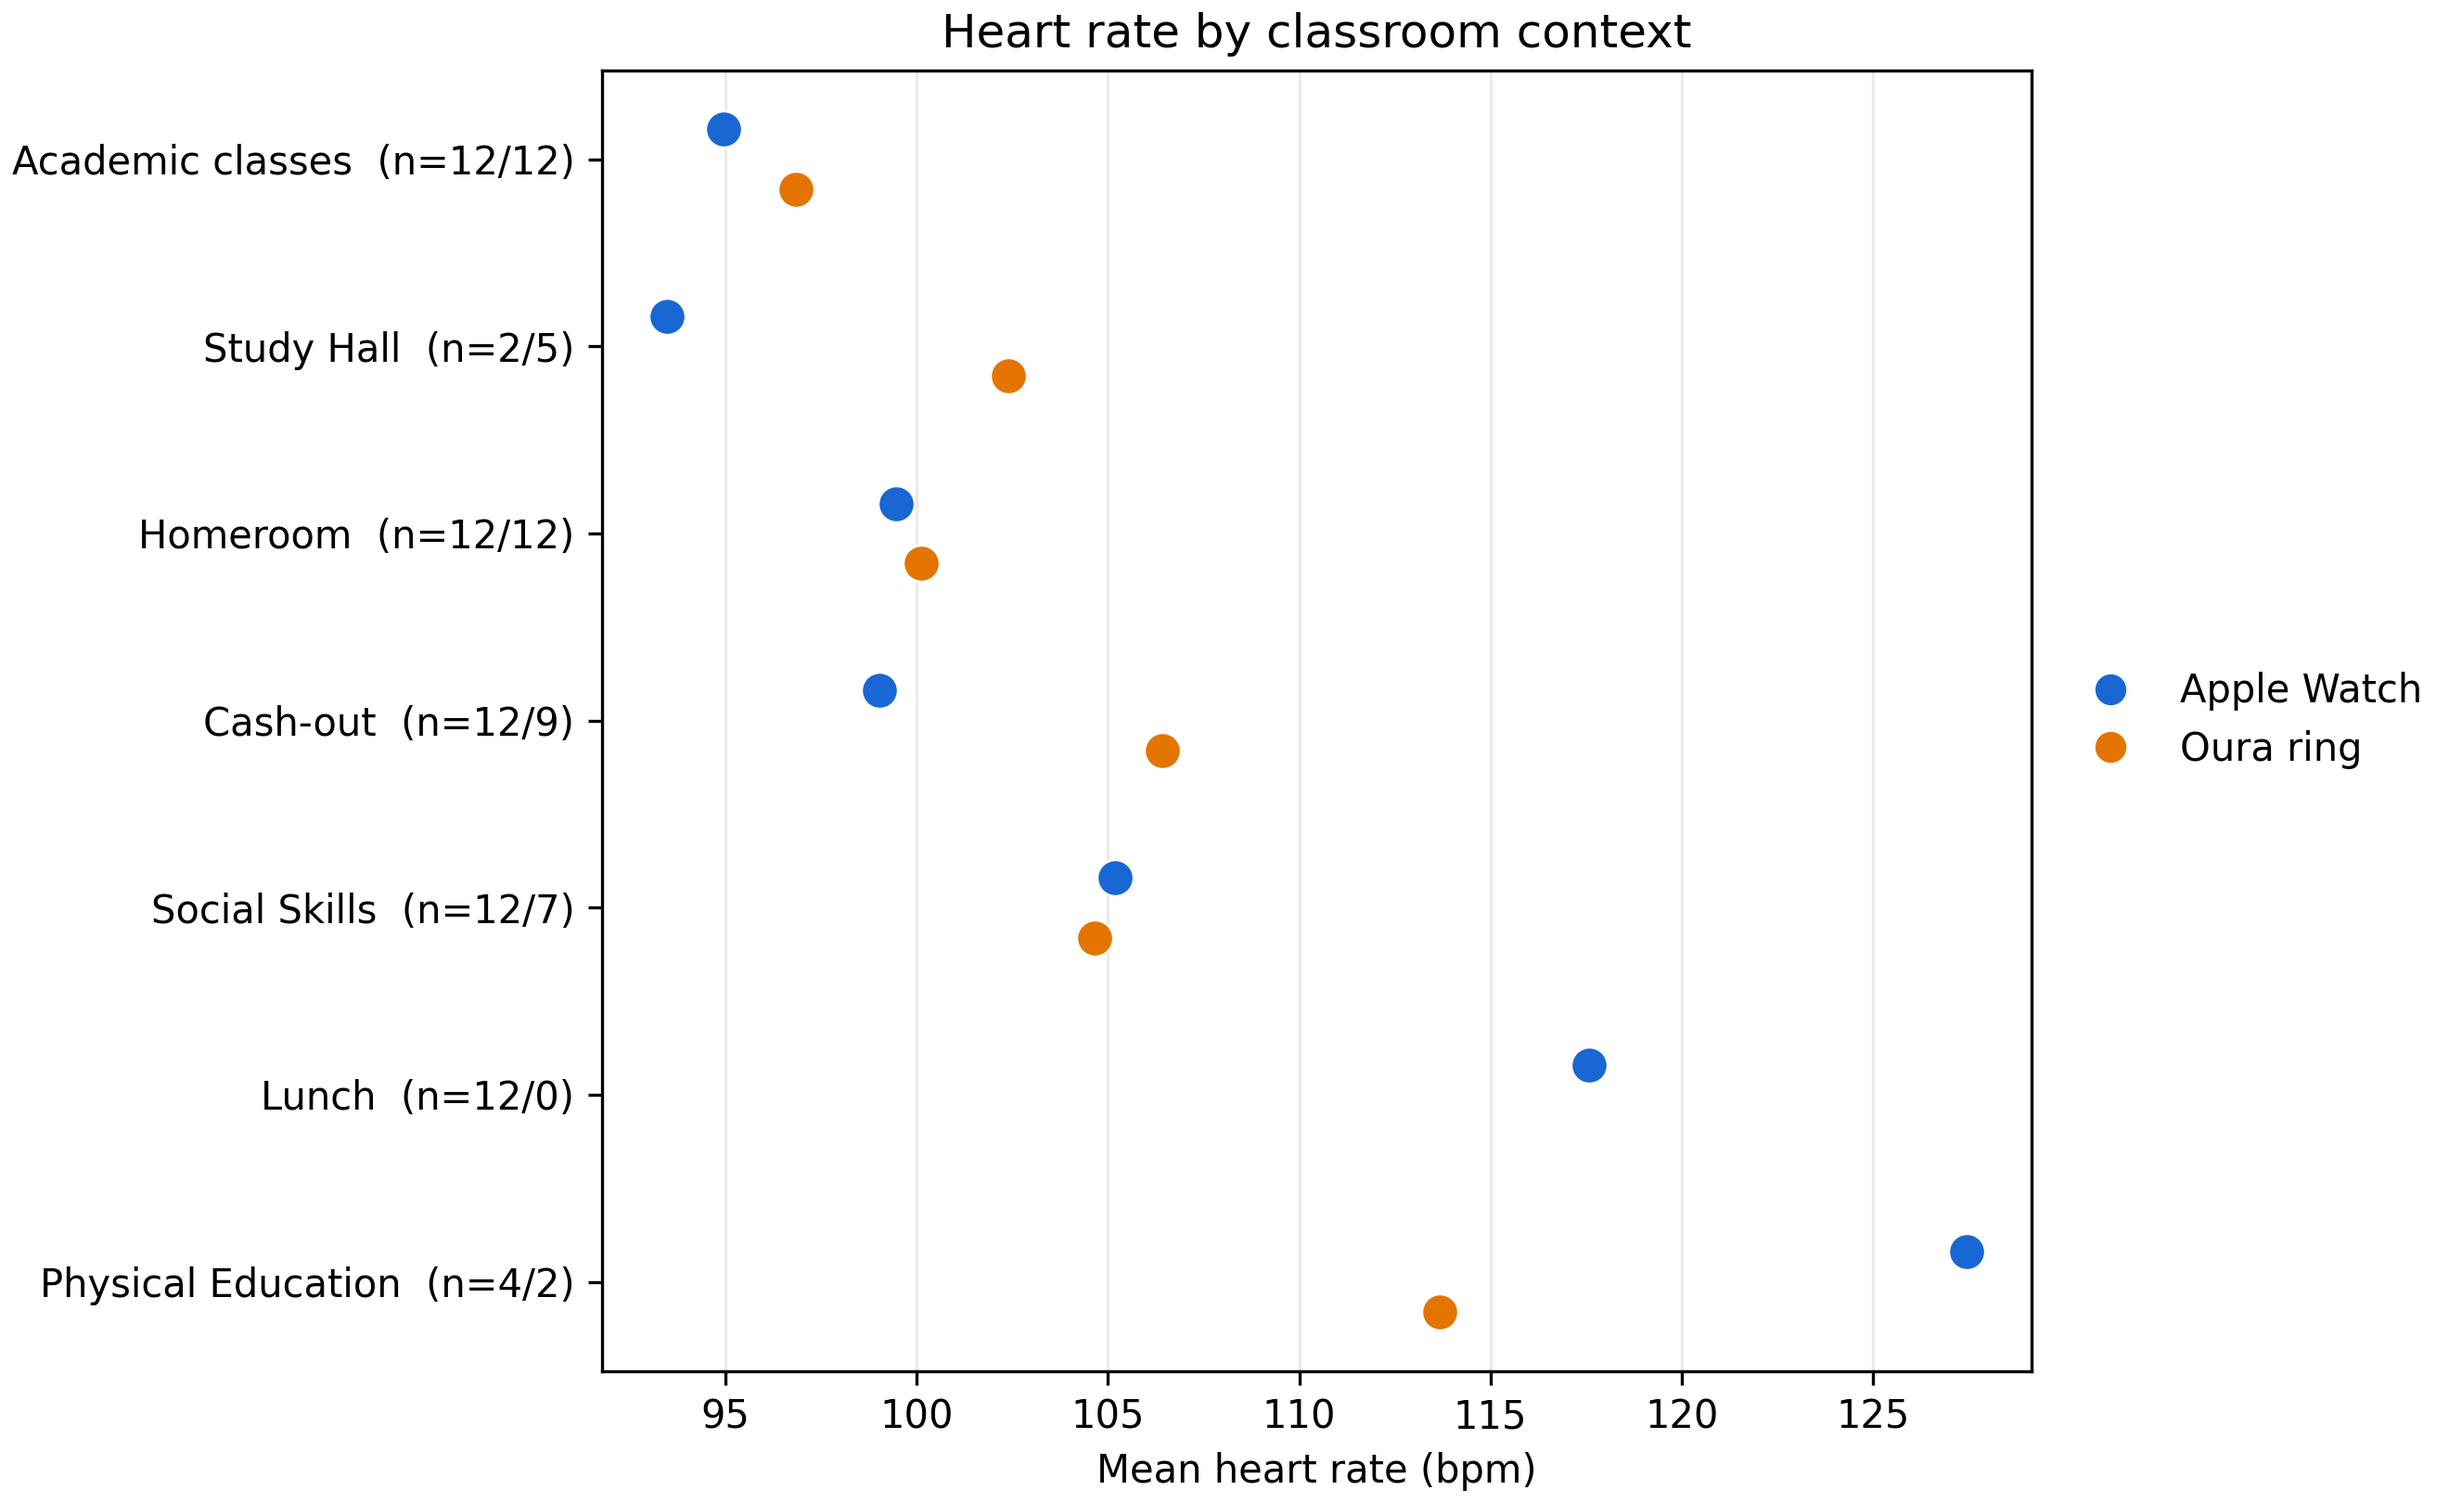
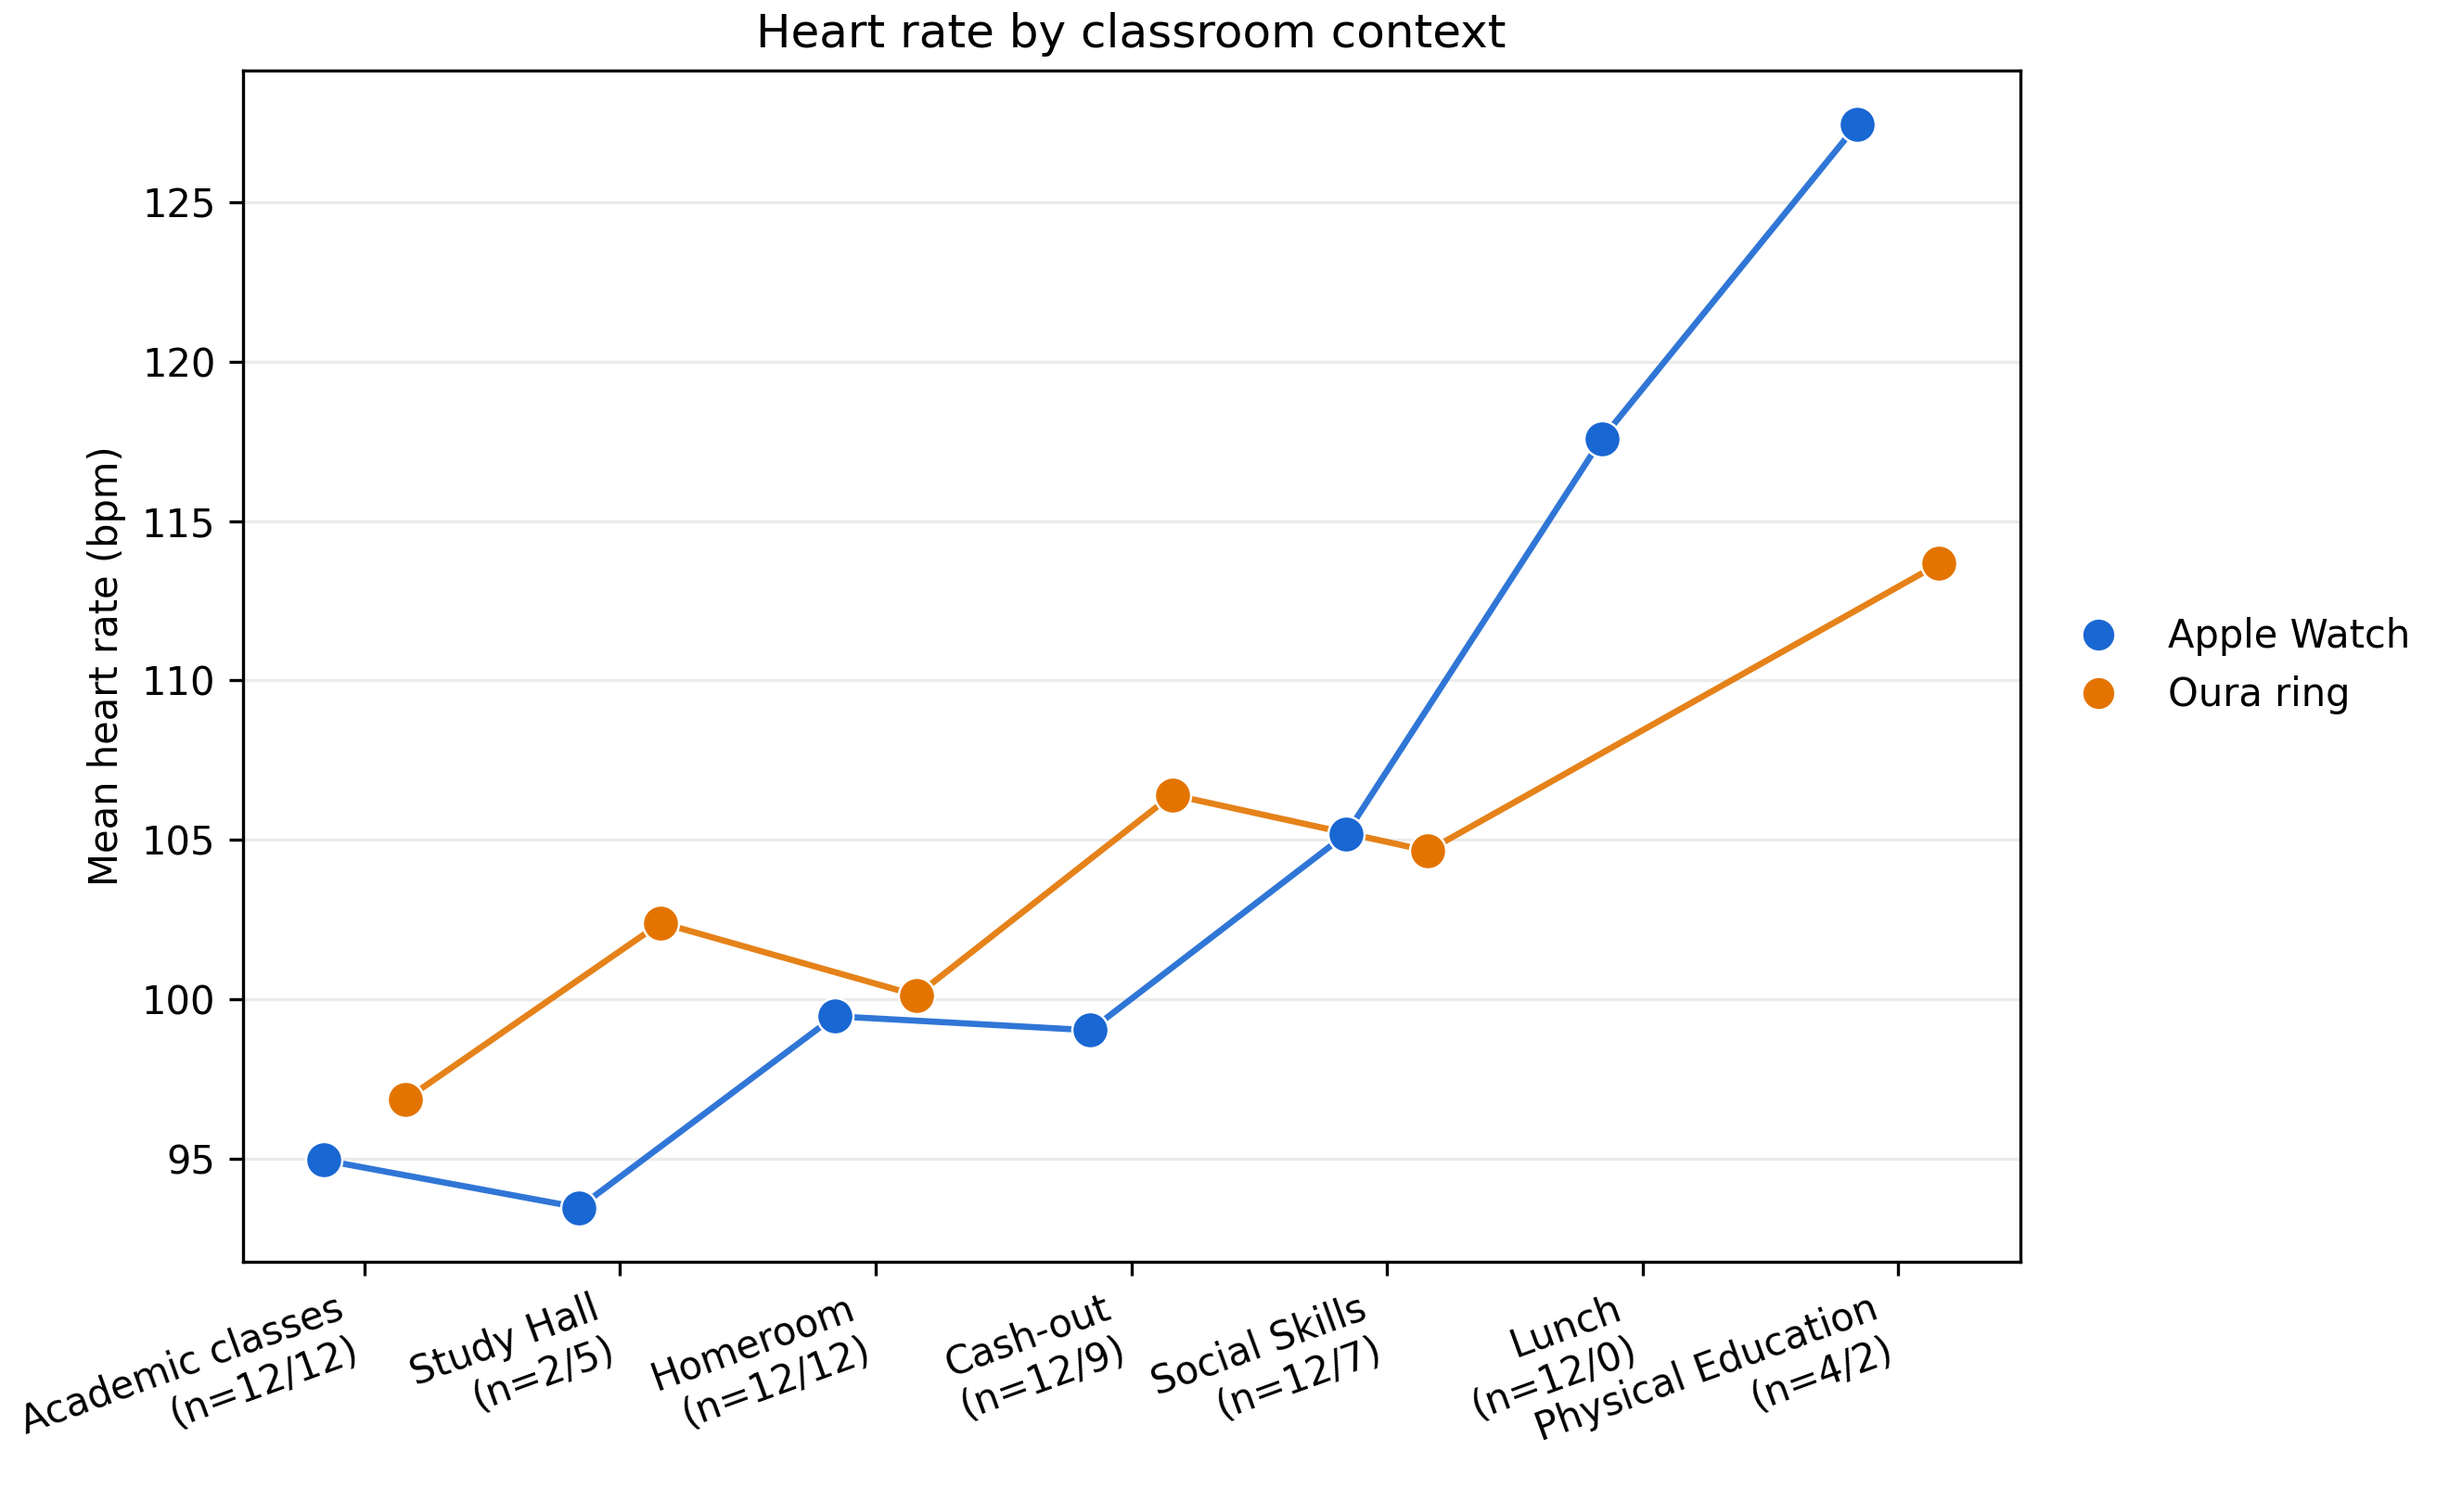
Updates

diff --git a/HeartRate-Patterns/run_analysis.py b/HeartRate-Patterns/run_analysis.py
@@ -338,20 +338,28 @@ def device_n(cohort: pd.DataFrame, device: str, stratum: str, level: str) -> int
 
 def mean_plot(ax, cohort: pd.DataFrame, stratum: str, levels: list[str], title: str) -> None:
     present = [level for level in levels if level in set(cohort[stratum])]
-    for i, level in enumerate(present):
-        for device, color, offset in DEVICES:
+    xs = np.arange(len(present))
+    for device, color, offset in DEVICES:
+        ys: list[float] = []
+        plot_xs: list[float] = []
+        for i, level in enumerate(present):
             hit = cohort[cohort["device"].eq(device) & cohort[stratum].eq(level)]
             if hit.empty:
                 continue
-            ax.scatter(hit.iloc[0]["mean_hr"], i + offset, color=color, s=88, zorder=3, edgecolors="white", linewidths=0.6)
-    ax.set_yticks(range(len(present)))
-    ax.set_yticklabels(
-        [f"{level}  (n={device_n(cohort, 'smartwatch', stratum, level)}/{device_n(cohort, 'smart-ring', stratum, level)})" for level in present]
+            plot_xs.append(i + offset)
+            ys.append(float(hit.iloc[0]["mean_hr"]))
+        if len(plot_xs) >= 2:
+            ax.plot(plot_xs, ys, color=color, linewidth=1.6, alpha=0.9, zorder=2)
+        ax.scatter(plot_xs, ys, color=color, s=88, zorder=3, edgecolors="white", linewidths=0.6)
+    ax.set_xticks(xs)
+    ax.set_xticklabels(
+        [f"{level}\n(n={device_n(cohort, 'smartwatch', stratum, level)}/{device_n(cohort, 'smart-ring', stratum, level)})" for level in present],
+        rotation=20,
+        ha="right",
     )
-    ax.invert_yaxis()
-    ax.set_xlabel("Mean heart rate (bpm)")
+    ax.set_ylabel("Mean heart rate (bpm)")
     ax.set_title(title)
-    ax.grid(axis="x", alpha=0.25)
+    ax.grid(axis="y", alpha=0.25)
 
 
 def save_participant_context_figure(person: pd.DataFrame, path: Path) -> None:
